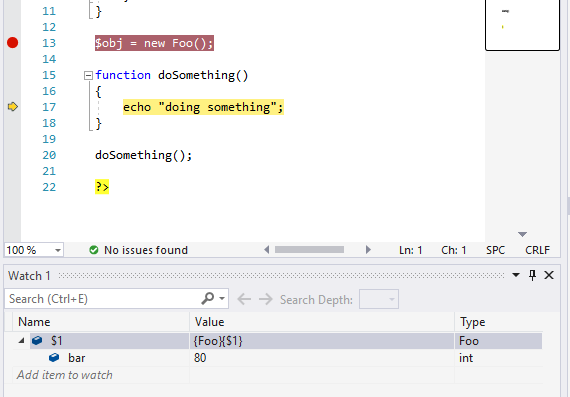
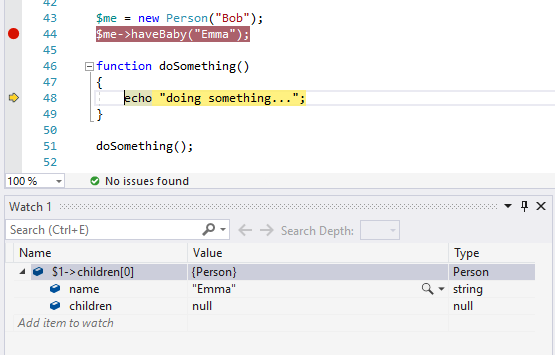
object id docs updated

diff --git a/docs/vs/Debugging/inspecting-data.md b/docs/vs/Debugging/inspecting-data.md
@@ -73,7 +73,7 @@ The Immediate window (`Debug | Windows | Immediate`) evaluates entered expressio
 
 ## Track objects with Object IDs
 
-When you want to track an object during its life, you can create **Object ID** for it. The Object ID allows you to observe the object even when it's out of scope. The object is displayed in the **Locals** window, but you can also add it to the **Watch** window. Here you can see the tracked object even when it's out of scope:
+When you want to track an object during its life, you can create **Object ID** for it. The Object ID allows you to observe the object even when it's out of scope. The object is displayed in the **Locals** window, but you can also add it to the **Watch** window as a part of an expression. Here you can see the tracked object even when it's out of scope:
 
 ![Tracked object in Watch Window](imgs\object-id.png)
 
